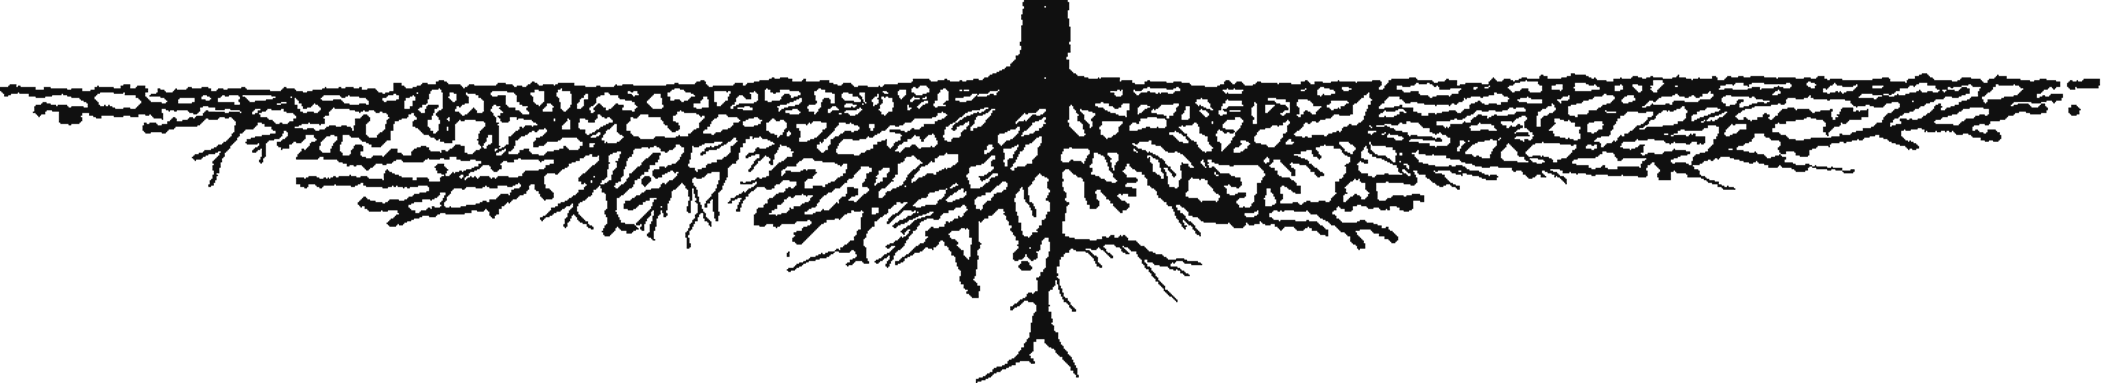
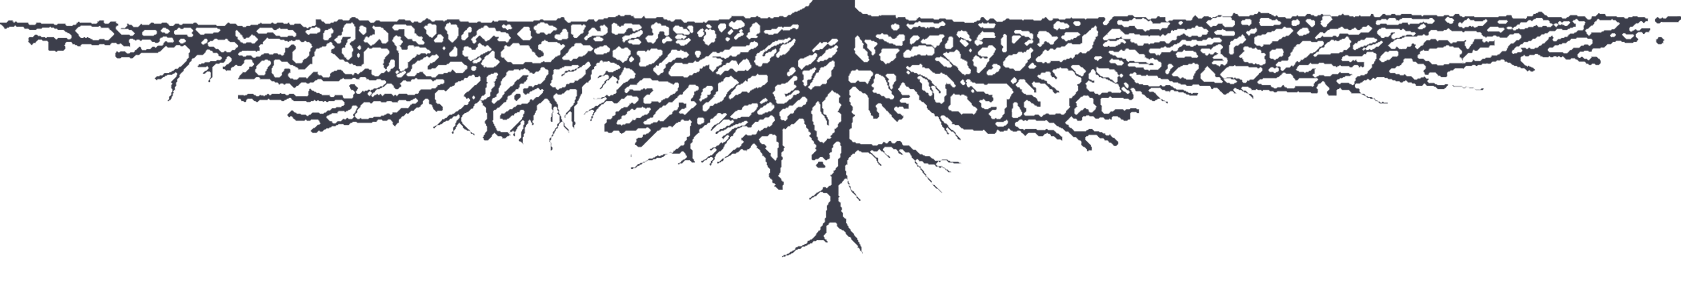
WIP

diff --git a/static/css/main.css b/static/css/main.css
@@ -6,19 +6,6 @@ html, body {
     html, body {
       font-family: "MetaSerif-Book", "Helvetica"; } }
 
-.hero {
-	background-color: #1b1b1b;
-	background-image: url("../img/pattern.png");
-	background-repeat: repeat-y repeat-x;
-	min-height: 530px;
-}
-
-.subhero {
-	background-color: #1b1b1b;
-	background-image: url("../img/pattern.png");
-	background-repeat: repeat-y repeat-x;
-}
-
 h1 {
 	font-size: 60px;
 	font-weight:100;
@@ -37,14 +24,38 @@ h3 {
 	font-size:18px;
 	color:#fff;
 }
+
+.hero {
+	background-color: #2a2b35;
+	/*--background-image: url("../img/pattern.png");--*/
+	background-repeat: repeat-y repeat-x;
+	min-height: 530px;
+}
+
+.hero h1 {
+	padding: 170px 0 0 0;
+}
+
+.hero-image {
+	position: absolute;
+	left: 5%;
+	max-width: 275%;
+}
+
+.subhero {
+	background-color: #3c3e4b;
+	/*--background-image: url("../img/pattern.png");--*/
+	background-repeat: repeat-y repeat-x;
+}
+
 .highlight {
 	background-color: #ff7030;
 } 
 
 .footnote {
-	background-color: #929292;
-	padding: 1px 10px 2px 10px;
-	margin: 0px 50% 0px 0px;
+	background-color: #3c3e4b;
+	padding: 1px 10px 8px 10px;
+	
 }
 
 .careers {

diff --git a/index.html b/index.html
@@ -16,9 +16,9 @@
 	<div class="hero">
 		<div class="container">
 			<div class="row">
+				<img class="hero-image" src="static/img/roots.png">
 				<div class="col-md-12">
-					<img src="static/img/roots.png" style="max-height:200px; max-width:100%; text-align:center">
-					<h1><span><img src="static/img/rad-icon.png" style="max-height:50px; padding-right:20px"></span>Radicle</h1>
+					<h1><span><img src="static/img/rad-icon.png" style="max-height:60px; padding: 0px 20px 10px 0px"></span>Radicle</h1>
 					<h2>Empowering  <span class="highlight">&nbsp;&nbsp;investors*&nbsp;&nbsp;</span>  in startups to make the right decisions</h2>
 				</div>
 			</div>
@@ -29,7 +29,7 @@
 			<div class="row">
 				<div class="col-md-12">
 					<div class="footnote">
-						<h3>&nbsp;&nbsp;* If you’re involved with a startup, you’re an investor in it&nbsp;&nbsp;</h3>
+						<h3>* If you’re involved with a startup, you’re an investor in it</h3>
 					</div>
 				</div>
 			</div>
